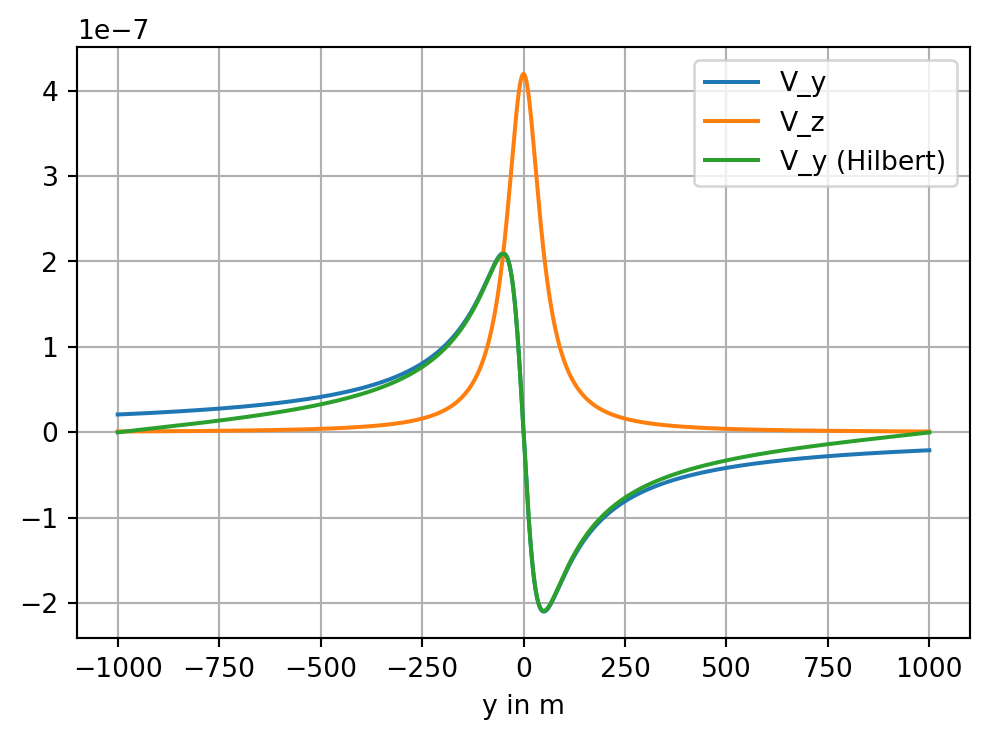
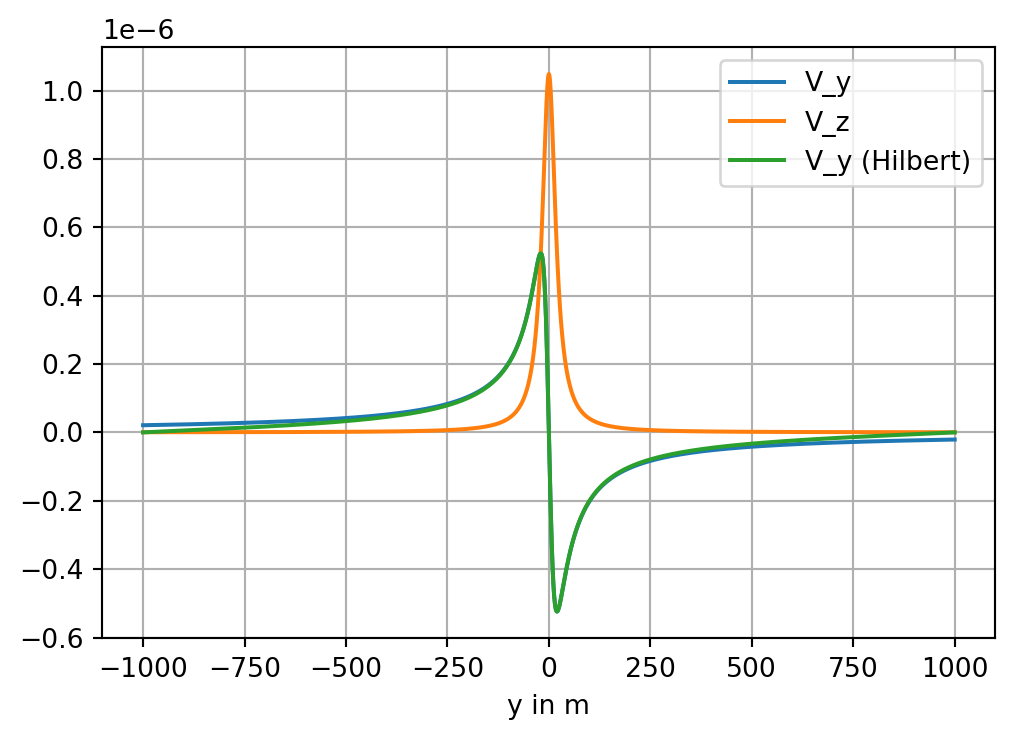
WIP

diff --git a/docs/hilbert_implementation.html b/docs/hilbert_implementation.html
@@ -425,7 +425,7 @@ window.Quarto = {
 </header>
 
 
-<div id="03f4286d" class="cell" data-execution_count="1">
+<div id="b1fdbb8b" class="cell" data-execution_count="1">
 <details class="code-fold">
 <summary>Show the code</summary>
 <div class="sourceCode cell-code" id="cb1"><pre class="sourceCode python code-with-copy"><code class="sourceCode python"><span id="cb1-1"><a href="#cb1-1" aria-hidden="true" tabindex="-1"></a><span class="im">import</span> numpy <span class="im">as</span> np</span>
@@ -458,7 +458,7 @@ f_{N} = \frac{1}{2 \Delta t}.
 S(t) = \sin(\frac{2 \pi}{T}t) = \sin(2 \pi f t)
 \]</span> The sampling frequency is <span class="math inline">\(200\)</span> Hz, which corresponds to a sampling interval of <span class="math inline">\(\Delta t=0.005\)</span> s and a resulting window length of <span class="math inline">\(n=200\)</span> samples.</p>
 <p>The <em>Nyquist frequency</em> is <span class="math inline">\(f_N = 100\)</span> Hz.</p>
-<div id="00800990" class="cell" data-execution_count="2">
+<div id="895d48f6" class="cell" data-execution_count="2">
 <details class="code-fold">
 <summary>Show the code</summary>
 <div class="sourceCode cell-code" id="cb3"><pre class="sourceCode python code-with-copy"><code class="sourceCode python"><span id="cb3-1"><a href="#cb3-1" aria-hidden="true" tabindex="-1"></a>L <span class="op">=</span> <span class="dv">1</span></span>
@@ -485,7 +485,7 @@ S(t) = \sin(\frac{2 \pi}{T}t) = \sin(2 \pi f t)
 <p>Now we calculate the Fourier spectrum of the signal. We use the FFT implementation of <code>numpy</code>. The array <code>X</code> contains the spectrum of <code>S</code>. Note that <code>X</code> is a complex-valued array.</p>
 <p>We recognize that the major Fourier component of the signal is associated with <span class="math inline">\(f=\pm 5\)</span> Hz.</p>
 <p>The order of the fourier coefficients in <code>X</code> depends on the implementation. It can be calulated using <code>fftfreq</code>.</p>
-<div id="a99b32d0" class="cell" data-execution_count="3">
+<div id="29de27a2" class="cell" data-execution_count="3">
 <details class="code-fold">
 <summary>Show the code</summary>
 <div class="sourceCode cell-code" id="cb4"><pre class="sourceCode python code-with-copy"><code class="sourceCode python"><span id="cb4-1"><a href="#cb4-1" aria-hidden="true" tabindex="-1"></a>X <span class="op">=</span> fft(S)</span>
@@ -508,7 +508,7 @@ S(t) = \sin(\frac{2 \pi}{T}t) = \sin(2 \pi f t)
 <p>Now let us compute the Hilbert transform of this signal. To this end, we provide the Fourier spectrum of the Hilbert transform operator, i.e., <span class="math display">\[
 \mathcal F(-\frac{1}{\pi t}, f) = i \, \text{sign}(f)
 \]</span> The Hilbert transform of the cosine is the sine function.</p>
-<div id="cff624e7" class="cell" data-execution_count="4">
+<div id="24c69d1f" class="cell" data-execution_count="4">
 <details class="code-fold">
 <summary>Show the code</summary>
 <div class="sourceCode cell-code" id="cb5"><pre class="sourceCode python code-with-copy"><code class="sourceCode python"><span id="cb5-1"><a href="#cb5-1" aria-hidden="true" tabindex="-1"></a>fi <span class="op">=</span> fftfreq(n, d<span class="op">=</span>dt)</span>
@@ -532,7 +532,7 @@ S(t) = \sin(\frac{2 \pi}{T}t) = \sin(2 \pi f t)
 <p>A second application of the Hilbert transform reveals its property of an <em>anti-self adjoint operator</em>, i.e., <span class="math display">\[
 \mathcal H(\mathcal H(u(t))) = -u(t)
 \]</span></p>
-<div id="7aec35f3" class="cell" data-execution_count="5">
+<div id="64e51eb7" class="cell" data-execution_count="5">
 <details class="code-fold">
 <summary>Show the code</summary>
 <div class="sourceCode cell-code" id="cb6"><pre class="sourceCode python code-with-copy"><code class="sourceCode python"><span id="cb6-1"><a href="#cb6-1" aria-hidden="true" tabindex="-1"></a>SH <span class="op">=</span> ifft( k <span class="op">*</span> fft(H)).real</span>
@@ -554,7 +554,7 @@ S(t) = \sin(\frac{2 \pi}{T}t) = \sin(2 \pi f t)
 <section id="application-to-the-2-d-gravity-problem" class="level2" data-number="14.1">
 <h2 data-number="14.1" class="anchored" data-anchor-id="application-to-the-2-d-gravity-problem"><span class="header-section-number">14.1</span> Application to the 2-D gravity problem</h2>
 <p>We provide a Python function that calculates the horizontal and vertical component of the gravitational attraction caused by a horizontal cylinder of radius <span class="math inline">\(a\)</span>. The function requires as argument the point of observation <code>obs</code> and the point <code>axis</code> where the axis of the cylinder meets the plane of observation. Further, the mass <span class="math inline">\(m=\pi a^2 \rho\)</span> of the cylinder must be given.</p>
-<div id="b0fc9a17" class="cell" data-execution_count="6">
+<div id="e049e348" class="cell" data-execution_count="6">
 <details class="code-fold">
 <summary>Show the code</summary>
 <div class="sourceCode cell-code" id="cb7"><pre class="sourceCode python code-with-copy"><code class="sourceCode python"><span id="cb7-1"><a href="#cb7-1" aria-hidden="true" tabindex="-1"></a><span class="kw">def</span> cylinder(obs, mass, axis):</span>
@@ -562,29 +562,29 @@ S(t) = \sin(\frac{2 \pi}{T}t) = \sin(2 \pi f t)
 <span id="cb7-3"><a href="#cb7-3" aria-hidden="true" tabindex="-1"></a>    <span class="cf">return</span> g</span></code><button title="Copy to Clipboard" class="code-copy-button"><i class="bi"></i></button></pre></div>
 </details>
 </div>
-<div id="02fdaecf" class="cell" data-execution_count="7">
+<div id="7fa90511" class="cell" data-execution_count="7">
 <details class="code-fold">
 <summary>Show the code</summary>
 <div class="sourceCode cell-code" id="cb8"><pre class="sourceCode python code-with-copy"><code class="sourceCode python"><span id="cb8-1"><a href="#cb8-1" aria-hidden="true" tabindex="-1"></a>y <span class="op">=</span> np.linspace(start<span class="op">=-</span><span class="dv">1000</span>, stop<span class="op">=</span><span class="dv">1000</span>, num<span class="op">=</span><span class="dv">2001</span>)</span>
 <span id="cb8-2"><a href="#cb8-2" aria-hidden="true" tabindex="-1"></a>g <span class="op">=</span> np.zeros([<span class="bu">len</span>(y), <span class="dv">2</span>])</span>
-<span id="cb8-3"><a href="#cb8-3" aria-hidden="true" tabindex="-1"></a>dy <span class="op">=</span> (y[<span class="op">-</span><span class="dv">1</span>] <span class="op">-</span> y[<span class="dv">0</span>]) <span class="op">/</span> <span class="bu">len</span>(y)</span>
+<span id="cb8-3"><a href="#cb8-3" aria-hidden="true" tabindex="-1"></a>dy <span class="op">=</span> (y[<span class="op">-</span><span class="dv">1</span>] <span class="op">-</span> y[<span class="dv">0</span>]) <span class="op">/</span> (<span class="bu">len</span>(y)<span class="op">-</span><span class="dv">1</span>)</span>
 <span id="cb8-4"><a href="#cb8-4" aria-hidden="true" tabindex="-1"></a>a <span class="op">=</span> <span class="dv">10</span></span>
 <span id="cb8-5"><a href="#cb8-5" aria-hidden="true" tabindex="-1"></a>rho <span class="op">=</span> <span class="dv">500</span></span>
-<span id="cb8-6"><a href="#cb8-6" aria-hidden="true" tabindex="-1"></a>depth <span class="op">=</span> <span class="dv">50</span></span>
+<span id="cb8-6"><a href="#cb8-6" aria-hidden="true" tabindex="-1"></a>depth <span class="op">=</span> <span class="dv">20</span></span>
 <span id="cb8-7"><a href="#cb8-7" aria-hidden="true" tabindex="-1"></a>mass <span class="op">=</span> np.pi <span class="op">*</span> a<span class="op">**</span><span class="dv">2</span> <span class="op">*</span> rho</span>
 <span id="cb8-8"><a href="#cb8-8" aria-hidden="true" tabindex="-1"></a><span class="cf">for</span> i, p <span class="kw">in</span> <span class="bu">enumerate</span>(y):</span>
 <span id="cb8-9"><a href="#cb8-9" aria-hidden="true" tabindex="-1"></a>    g[i, :] <span class="op">=</span> cylinder(np.array([p, <span class="dv">0</span>]), mass, np.array([<span class="dv">0</span>, depth]))</span></code><button title="Copy to Clipboard" class="code-copy-button"><i class="bi"></i></button></pre></div>
 </details>
 </div>
 <p>Now we take <span class="math inline">\(V_z(y)\)</span> and compute the Hilbert transform. Further, we compare to <span class="math inline">\(V_y(y)\)</span>.</p>
-<div id="5a7b7d5e" class="cell" data-execution_count="8">
+<div id="e949c272" class="cell" data-execution_count="8">
 <details class="code-fold">
 <summary>Show the code</summary>
 <div class="sourceCode cell-code" id="cb9"><pre class="sourceCode python code-with-copy"><code class="sourceCode python"><span id="cb9-1"><a href="#cb9-1" aria-hidden="true" tabindex="-1"></a>k <span class="op">=</span> fftfreq(<span class="bu">len</span>(y), d<span class="op">=</span>dy)</span>
 <span id="cb9-2"><a href="#cb9-2" aria-hidden="true" tabindex="-1"></a>V_H <span class="op">=</span> ifft(<span class="ot">1j</span> <span class="op">*</span> np.sign(k) <span class="op">*</span> fft(g[:, <span class="dv">1</span>])).real</span></code><button title="Copy to Clipboard" class="code-copy-button"><i class="bi"></i></button></pre></div>
 </details>
 </div>
-<div id="a88a7a9d" class="cell" data-execution_count="9">
+<div id="784d66c1" class="cell" data-execution_count="9">
 <details class="code-fold">
 <summary>Show the code</summary>
 <div class="sourceCode cell-code" id="cb10"><pre class="sourceCode python code-with-copy"><code class="sourceCode python"><span id="cb10-1"><a href="#cb10-1" aria-hidden="true" tabindex="-1"></a>fig, ax <span class="op">=</span> plt.subplots(figsize<span class="op">=</span>(<span class="dv">6</span>,<span class="dv">4</span>))</span>
@@ -599,7 +599,7 @@ S(t) = \sin(\frac{2 \pi}{T}t) = \sin(2 \pi f t)
 <div class="cell-output cell-output-display">
 <div>
 <figure class="figure">
-<p><img src="hilbert_implementation_files/figure-html/cell-10-output-1.png" width="495" height="370" class="figure-img"></p>
+<p><img src="hilbert_implementation_files/figure-html/cell-10-output-1.png" width="507" height="370" class="figure-img"></p>
 </figure>
 </div>
 </div>
